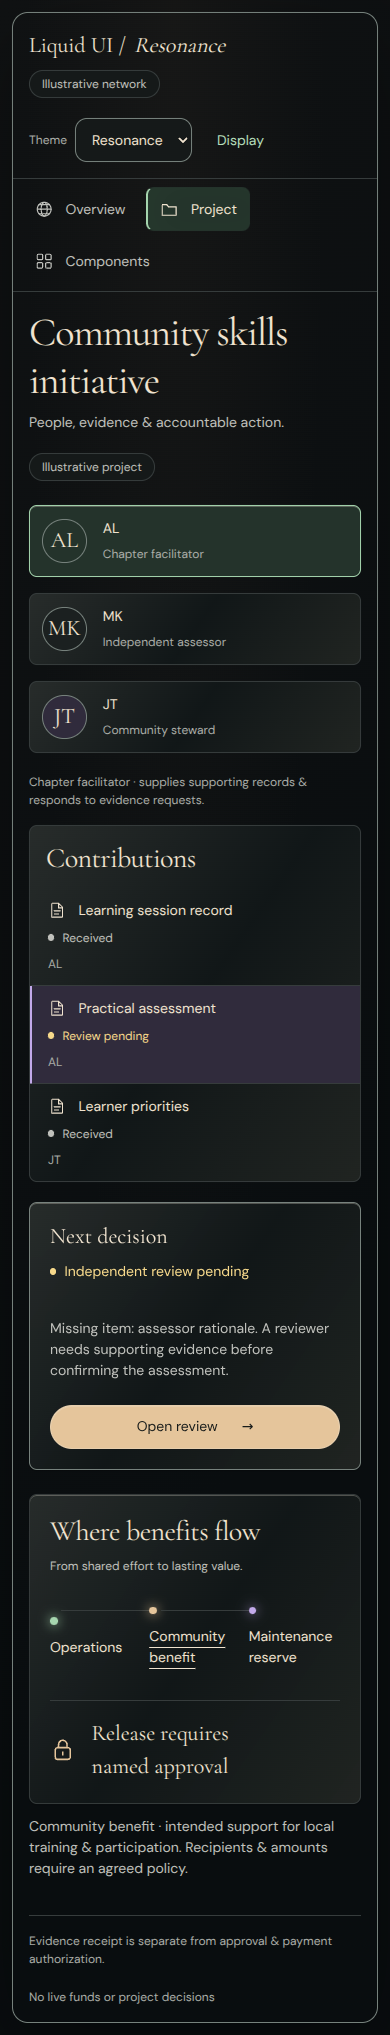
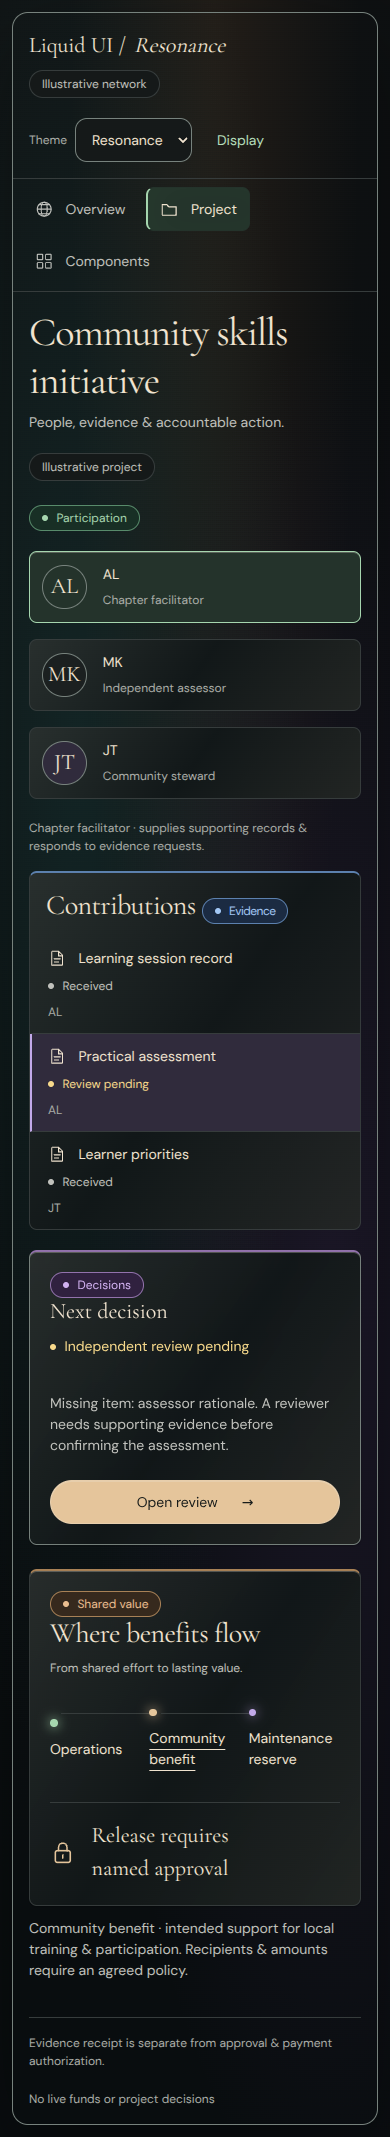
feat: add reusable functional color roles and globe role accents
Define participation, learning, evidence, governance and value palettes across themes. Keep functional roles separate from workflow status and selection. Demonstrate roles in shared components, project workspace and independent globe consumer.

Validation: 25 tests and Chromium browser checks passed; updated browser previews included.

Changed region(s): [[0.0615, 0.0, 0.9538, 1.0]]

diff --git a/showcase/index.html b/showcase/index.html
@@ -9,18 +9,18 @@
 <main class="liquid-main">
 <section id="overview" aria-label="Ecosystem overview"><div class="liquid-atlas"><div class="liquid-atlas__intro"><h1>A world of<br>shared possibility.</h1><p>Communities, projects & people in a connected tomorrow.</p><hr class="liquid-rule"><span class="liquid-eyebrow">Local action<br>global resonance</span></div>
 <div class="liquid-atlas__map"><liquid-globe id="network-globe" aria-label="Illustrative regional network"></liquid-globe></div>
-<div><h2>Explore the network</h2><div class="liquid-region-list"><button class="liquid-choice" data-region="caribbean" aria-pressed="true"><span class="liquid-light" aria-hidden="true"></span><span class="liquid-choice__label">Caribbean</span><span class="liquid-choice__meta">Community energy</span></button><button class="liquid-choice" data-region="west" aria-pressed="false"><span class="liquid-light liquid-light--gold" aria-hidden="true"></span><span class="liquid-choice__label">West Africa</span><span class="liquid-choice__meta">Learning</span></button><button class="liquid-choice" data-region="east" aria-pressed="false"><span class="liquid-light liquid-light--violet" aria-hidden="true"></span><span class="liquid-choice__label">East Africa</span><span class="liquid-choice__meta">Skills & opportunity</span></button></div>
-<article class="liquid-panel liquid-panel--glass"><div class="liquid-context__visual"><liquid-globe class="liquid-globe--mini" id="region-globe" aria-hidden="true" inert></liquid-globe><div aria-live="polite"><h2 id="region-name">Caribbean</h2><p id="region-sector">Community energy</p></div></div><p id="region-description" class="liquid-detail-line">People working together for resilient, locally governed energy systems.</p><div class="liquid-context__footer"><p class="liquid-caption">Participants · contributions · decisions</p><button id="explore-project" class="liquid-action liquid-action--full">Explore project <span aria-hidden="true">→</span></button></div></article></div></div>
+<div><h2>Explore the network</h2><div class="liquid-region-list"><button class="liquid-choice" data-region="caribbean" aria-pressed="true"><span class="liquid-light" data-liquid-role="participation" aria-hidden="true"></span><span class="liquid-choice__label">Caribbean</span><span class="liquid-choice__meta">Community energy</span></button><button class="liquid-choice" data-region="west" aria-pressed="false"><span class="liquid-light" data-liquid-role="learning" aria-hidden="true"></span><span class="liquid-choice__label">West Africa</span><span class="liquid-choice__meta">Learning</span></button><button class="liquid-choice" data-region="east" aria-pressed="false"><span class="liquid-light" data-liquid-role="learning" aria-hidden="true"></span><span class="liquid-choice__label">East Africa</span><span class="liquid-choice__meta">Skills & opportunity</span></button></div>
+<article class="liquid-panel liquid-panel--glass"><div class="liquid-context__visual"><liquid-globe class="liquid-globe--mini" id="region-globe" aria-hidden="true" inert></liquid-globe><div aria-live="polite"><h2 id="region-name">Caribbean</h2><p id="region-sector" class="liquid-role-label" data-liquid-role="participation">Community energy</p></div></div><p id="region-description" class="liquid-detail-line">People working together for resilient, locally governed energy systems.</p><div class="liquid-context__footer"><p class="liquid-caption">Participants · contributions · decisions</p><button id="explore-project" class="liquid-action liquid-action--full">Explore project <span aria-hidden="true">→</span></button></div></article></div></div>
 <footer class="liquid-footer"><span class="liquid-caption">Geography: <a href="https://github.com/topojson/world-atlas">Natural Earth / World Atlas</a></span><span class="liquid-caption">Illustrative locations · no deployment claims</span></footer></section>
 <section id="project" aria-label="Project workspace" hidden><header class="liquid-page-heading"><div><h1 id="project-title">Riverbend community energy</h1><p>People, evidence & accountable action.</p></div><span class="liquid-tag">Illustrative project</span></header>
-<div class="liquid-person-list" aria-label="Project participants"><button class="liquid-person" data-person="operator" aria-pressed="true"><span class="liquid-avatar">AL</span><span><span class="liquid-person__name">AL</span><span class="liquid-caption person-role">Project operator</span></span></button><button class="liquid-person" data-person="reviewer" aria-pressed="false"><span class="liquid-avatar liquid-avatar--neutral">MK</span><span><span class="liquid-person__name">MK</span><span class="liquid-caption person-role">Independent reviewer</span></span></button><button class="liquid-person" data-person="steward" aria-pressed="false"><span class="liquid-avatar liquid-avatar--violet">JT</span><span><span class="liquid-person__name">JT</span><span class="liquid-caption person-role">Community steward</span></span></button></div>
+<p><span class="liquid-role-label" data-liquid-role="participation">Participation</span></p><div class="liquid-person-list" aria-label="Project participants"><button class="liquid-person" data-person="operator" aria-pressed="true"><span class="liquid-avatar">AL</span><span><span class="liquid-person__name">AL</span><span class="liquid-caption person-role">Project operator</span></span></button><button class="liquid-person" data-person="reviewer" aria-pressed="false"><span class="liquid-avatar liquid-avatar--neutral">MK</span><span><span class="liquid-person__name">MK</span><span class="liquid-caption person-role">Independent reviewer</span></span></button><button class="liquid-person" data-person="steward" aria-pressed="false"><span class="liquid-avatar liquid-avatar--violet">JT</span><span><span class="liquid-person__name">JT</span><span class="liquid-caption person-role">Community steward</span></span></button></div>
 <p id="person-context" class="liquid-caption" aria-live="polite">Project operator · supplies supporting records & responds to evidence requests.</p>
-<div class="liquid-master-detail"><div class="liquid-records"><h2 class="liquid-records__heading">Contributions</h2><div class="liquid-records__labels" aria-hidden="true"><span>Item</span><span>Status</span><span>Added by</span></div><div id="contribution-list"></div></div>
-<aside class="liquid-panel liquid-panel--glass liquid-decision"><h3>Next decision</h3><div id="decision-context" aria-live="polite"><p class="liquid-state" data-status="pending">Independent review pending</p><p>Missing item: calibration signature.</p></div><button id="open-review" class="liquid-action liquid-action--full">Open review <span aria-hidden="true">→</span></button></aside></div>
-<div class="liquid-panel liquid-panel--quiet liquid-benefit-strip"><div><h2>Where benefits flow</h2><p class="liquid-caption">From shared effort to lasting value.</p></div><div class="liquid-benefits"><button class="liquid-benefit" data-benefit="operations" aria-pressed="false"><span class="liquid-light" aria-hidden="true"></span>Operations</button><button class="liquid-benefit" data-benefit="community" aria-pressed="true"><span class="liquid-light liquid-light--gold" aria-hidden="true"></span>Community benefit</button><button class="liquid-benefit" data-benefit="reserve" aria-pressed="false"><span class="liquid-light liquid-light--violet" aria-hidden="true"></span>Maintenance reserve</button></div><div class="liquid-approval"><svg class="liquid-icon" aria-hidden="true"><use href="#icon-lock"/></svg><strong>Release requires<br>named approval</strong></div></div>
+<div class="liquid-master-detail"><div class="liquid-records liquid-function-panel" data-liquid-role="evidence"><h2 class="liquid-records__heading">Contributions <span class="liquid-role-label" data-liquid-role="evidence">Evidence</span></h2><div class="liquid-records__labels" aria-hidden="true"><span>Item</span><span>Status</span><span>Added by</span></div><div id="contribution-list"></div></div>
+<aside class="liquid-panel liquid-panel--glass liquid-decision liquid-function-panel" data-liquid-role="governance"><span class="liquid-role-label" data-liquid-role="governance">Decisions</span><h3>Next decision</h3><div id="decision-context" aria-live="polite"><p class="liquid-state" data-status="pending">Independent review pending</p><p>Missing item: calibration signature.</p></div><button id="open-review" class="liquid-action liquid-action--full">Open review <span aria-hidden="true">→</span></button></aside></div>
+<div class="liquid-panel liquid-panel--quiet liquid-benefit-strip liquid-function-panel" data-liquid-role="value"><div><span class="liquid-role-label" data-liquid-role="value">Shared value</span><h2>Where benefits flow</h2><p class="liquid-caption">From shared effort to lasting value.</p></div><div class="liquid-benefits"><button class="liquid-benefit" data-benefit="operations" aria-pressed="false"><span class="liquid-light" aria-hidden="true"></span>Operations</button><button class="liquid-benefit" data-benefit="community" aria-pressed="true"><span class="liquid-light liquid-light--gold" aria-hidden="true"></span>Community benefit</button><button class="liquid-benefit" data-benefit="reserve" aria-pressed="false"><span class="liquid-light liquid-light--violet" aria-hidden="true"></span>Maintenance reserve</button></div><div class="liquid-approval"><svg class="liquid-icon" aria-hidden="true"><use href="#icon-lock"/></svg><strong>Release requires<br>named approval</strong></div></div>
 <p id="benefit-context" class="liquid-detail-line" aria-live="polite">Community benefit · intended support for local training & participation. Recipients & amounts require an agreed policy.</p>
 <footer class="liquid-footer"><span class="liquid-caption">Evidence receipt is separate from approval & payment authorization.</span><span class="liquid-caption">No live funds or project decisions</span></footer></section>
-<section id="components" aria-label="Reusable components" hidden><header class="liquid-page-heading"><div><h1>One system. Many contexts.</h1><p>The same package styles the atlas, project workspace & these primitives.</p></div><a href="/tokens.json">Inspect token source</a></header><div class="liquid-catalog"><article class="liquid-panel"><h2>Governed states</h2><div class="liquid-toolbar" id="state-catalog"></div><p class="liquid-caption">Visible labels carry meaning. Selection violet does not imply approval.</p></article><article class="liquid-panel liquid-panel--glass"><h2>Actions & feedback</h2><div class="liquid-toolbar"><button class="liquid-action" id="preview-feedback">Preview confirmation</button><button class="liquid-action" disabled>Release unavailable</button></div><p id="feedback" role="status" class="liquid-detail-line"></p></article><article class="liquid-panel"><h2>Inputs</h2><label class="liquid-field"><span class="liquid-field__label">Decision rationale</span><textarea class="liquid-textarea" aria-describedby="rationale-hint"></textarea><span class="liquid-field__hint" id="rationale-hint">Explain the evidence & next step.</span></label></article><article class="liquid-panel"><h2>Native controls</h2><p class="liquid-caption">Buttons & dialogs keep native keyboard behavior. The atlas includes an equivalent selectable list.</p><button class="liquid-button liquid-button--secondary" id="catalog-settings">Explore display options</button></article></div></section>
+<section id="components" aria-label="Reusable components" hidden><header class="liquid-page-heading"><div><h1>One system. Many contexts.</h1><p>The same package styles the atlas, project workspace & these primitives.</p></div><a href="/tokens.json">Inspect token source</a></header><div class="liquid-catalog"><article class="liquid-panel"><h2>Functional colors</h2><p>Color identifies a purpose. Status labels identify outcomes.</p><div class="liquid-toolbar"><span class="liquid-role-label" data-liquid-role="participation">Participation</span><span class="liquid-role-label" data-liquid-role="learning">Learning</span><span class="liquid-role-label" data-liquid-role="evidence">Evidence</span><span class="liquid-role-label" data-liquid-role="governance">Decisions</span><span class="liquid-role-label" data-liquid-role="value">Shared value</span></div></article><article class="liquid-panel"><h2>Governed states</h2><div class="liquid-toolbar" id="state-catalog"></div><p class="liquid-caption">Visible labels carry meaning. Selection violet does not imply approval.</p></article><article class="liquid-panel liquid-panel--glass"><h2>Actions & feedback</h2><div class="liquid-toolbar"><button class="liquid-action" id="preview-feedback">Preview confirmation</button><button class="liquid-action" disabled>Release unavailable</button></div><p id="feedback" role="status" class="liquid-detail-line"></p></article><article class="liquid-panel"><h2>Inputs</h2><label class="liquid-field"><span class="liquid-field__label">Decision rationale</span><textarea class="liquid-textarea" aria-describedby="rationale-hint"></textarea><span class="liquid-field__hint" id="rationale-hint">Explain the evidence & next step.</span></label></article><article class="liquid-panel"><h2>Native controls</h2><p class="liquid-caption">Buttons & dialogs keep native keyboard behavior. The atlas includes an equivalent selectable list.</p><button class="liquid-button liquid-button--secondary" id="catalog-settings">Explore display options</button></article></div></section>
 </main></div></div>
 <dialog class="liquid-dialog" id="settings-dialog" aria-labelledby="settings-title"><h2 id="settings-title">Display preferences</h2><p>Choose surfaces that are comfortable to read.</p><label class="liquid-field"><span>Solid panels</span><input id="solid-panels" type="checkbox"></label><p class="liquid-caption">Device preferences for reduced motion & reduced transparency remain respected.</p><form method="dialog"><button class="liquid-action">Done</button></form></dialog>
 <dialog class="liquid-dialog" id="review-dialog" aria-labelledby="review-title"><span class="liquid-tag">Illustrative interaction</span><h2 id="review-title">Record the next step.</h2><p id="review-summary"></p><form id="review-form"><label class="liquid-field"><span class="liquid-field__label">Reviewer rationale</span><textarea class="liquid-textarea" id="review-rationale" required></textarea></label><div class="liquid-toolbar"><button type="submit" class="liquid-action">Preview evidence request</button><button type="button" id="close-review" class="liquid-button liquid-button--quiet">Close</button></div><p id="review-feedback" role="status" class="liquid-detail-line"></p></form></dialog>

diff --git a/tokens.css b/tokens.css
@@ -69,6 +69,26 @@
   --liquid-globe-rim: #59786A;
   --liquid-globe-halo: rgba(77, 157, 152, 0.12);
   --liquid-globe-point: #126B50;
+  --liquid-role-participation-foreground: #21613F;
+  --liquid-role-participation-background: #EAF5EE;
+  --liquid-role-participation-border: #3D855A;
+  --liquid-role-participation-accent: #21613F;
+  --liquid-role-learning-foreground: #12616E;
+  --liquid-role-learning-background: #E6F5F7;
+  --liquid-role-learning-border: #278393;
+  --liquid-role-learning-accent: #12616E;
+  --liquid-role-evidence-foreground: #285C9E;
+  --liquid-role-evidence-background: #EAF1FC;
+  --liquid-role-evidence-border: #547CB6;
+  --liquid-role-evidence-accent: #285C9E;
+  --liquid-role-governance-foreground: #6D3E98;
+  --liquid-role-governance-background: #F3ECFA;
+  --liquid-role-governance-border: #8C61B4;
+  --liquid-role-governance-accent: #6D3E98;
+  --liquid-role-value-foreground: #855027;
+  --liquid-role-value-background: #FBF0E4;
+  --liquid-role-value-border: #A16D3D;
+  --liquid-role-value-accent: #855027;
   --liquid-font-family-display: 'Iowan Old Style', 'Palatino Linotype', 'Book Antiqua', Georgia, serif;
   --liquid-font-sans: Inter, ui-sans-serif, system-ui, -apple-system, BlinkMacSystemFont, 'Segoe UI', sans-serif;
   --liquid-font-mono: 'IBM Plex Mono', ui-monospace, SFMono-Regular, Consolas, monospace;
@@ -192,6 +212,26 @@
   --liquid-globe-rim: #6D8993;
   --liquid-globe-halo: rgba(147, 191, 198, 0.1);
   --liquid-globe-point: #CBEBC7;
+  --liquid-role-participation-foreground: #A6D6AF;
+  --liquid-role-participation-background: #182F25;
+  --liquid-role-participation-border: #588B6B;
+  --liquid-role-participation-accent: #A6D6AF;
+  --liquid-role-learning-foreground: #8FD6DE;
+  --liquid-role-learning-background: #142E35;
+  --liquid-role-learning-border: #4F8992;
+  --liquid-role-learning-accent: #8FD6DE;
+  --liquid-role-evidence-foreground: #A3C8F5;
+  --liquid-role-evidence-background: #1B2B42;
+  --liquid-role-evidence-border: #5C81AF;
+  --liquid-role-evidence-accent: #A3C8F5;
+  --liquid-role-governance-foreground: #D1B1F0;
+  --liquid-role-governance-background: #30213F;
+  --liquid-role-governance-border: #9272AC;
+  --liquid-role-governance-accent: #D1B1F0;
+  --liquid-role-value-foreground: #EABD8F;
+  --liquid-role-value-background: #36291D;
+  --liquid-role-value-border: #A88156;
+  --liquid-role-value-accent: #EABD8F;
   --liquid-shadow-sm: 0 1px 2px rgba(0, 0, 0, 0.30);
   --liquid-shadow-md: 0 12px 34px rgba(0, 0, 0, 0.38);
   --liquid-shadow-glass: 0 28px 90px rgba(0, 0, 0, 0.42);
@@ -255,7 +295,7 @@
   --liquid-product-accent-strong: #D4EED8;
   --liquid-product-accent-soft: #25382C;
   --liquid-overlay-scrim: rgba(3, 10, 7, 0.72);
-  --liquid-gradient-atmosphere: radial-gradient(ellipse at 45% 0%, rgba(116, 94, 73, 0.08), transparent 50%), linear-gradient(125deg, #101213, #090D0F 70%);
+  --liquid-gradient-atmosphere: radial-gradient(ellipse at 20% 35%, rgba(45, 129, 124, 0.18), transparent 52%), radial-gradient(ellipse at 85% 60%, rgba(112, 65, 152, 0.16), transparent 52%), radial-gradient(ellipse at 55% 0%, rgba(176, 116, 64, 0.12), transparent 48%), linear-gradient(125deg, #101213, #090D0F 70%);
   --liquid-gradient-resonance: linear-gradient(135deg, #A6D6AF, #9FC9C6 60%, #C2A9E9);
   --liquid-gradient-wallet: linear-gradient(135deg, #A6D6AF, #E5C59B);
   --liquid-material-panel: linear-gradient(125deg, rgba(46, 51, 49, 0.8), rgba(17, 23, 24, 0.94) 50%, rgba(37, 41, 37, 0.82));
@@ -263,12 +303,32 @@
   --liquid-material-selection: #302B3C;
   --liquid-material-selection-border: #C2A9E9;
   --liquid-material-active: #24332B;
-  --liquid-globe-ocean: #131C22;
+  --liquid-globe-ocean: #143038;
   --liquid-globe-shade: #05080D;
   --liquid-globe-land: #E6D1B2;
-  --liquid-globe-rim: #6D8993;
-  --liquid-globe-halo: rgba(147, 191, 198, 0.1);
+  --liquid-globe-rim: #78ADB8;
+  --liquid-globe-halo: rgba(104, 192, 203, 0.17);
   --liquid-globe-point: #CBEBC7;
+  --liquid-role-participation-foreground: #A6D6AF;
+  --liquid-role-participation-background: #182F25;
+  --liquid-role-participation-border: #588B6B;
+  --liquid-role-participation-accent: #A6D6AF;
+  --liquid-role-learning-foreground: #8FD6DE;
+  --liquid-role-learning-background: #142E35;
+  --liquid-role-learning-border: #4F8992;
+  --liquid-role-learning-accent: #8FD6DE;
+  --liquid-role-evidence-foreground: #A3C8F5;
+  --liquid-role-evidence-background: #1B2B42;
+  --liquid-role-evidence-border: #5C81AF;
+  --liquid-role-evidence-accent: #A3C8F5;
+  --liquid-role-governance-foreground: #D1B1F0;
+  --liquid-role-governance-background: #30213F;
+  --liquid-role-governance-border: #9272AC;
+  --liquid-role-governance-accent: #D1B1F0;
+  --liquid-role-value-foreground: #EABD8F;
+  --liquid-role-value-background: #36291D;
+  --liquid-role-value-border: #A88156;
+  --liquid-role-value-accent: #EABD8F;
   --liquid-shadow-sm: 0 1px 2px rgba(0, 0, 0, 0.30);
   --liquid-shadow-md: 0 12px 34px rgba(0, 0, 0, 0.38);
   --liquid-shadow-glass: 0 28px 90px rgba(0, 0, 0, 0.42);

diff --git a/components/globe.js b/components/globe.js
@@ -102,6 +102,7 @@ export class LiquidGlobe extends HTMLElement {
     const ratio=Math.min(devicePixelRatio||1,2),size=Math.round(w*ratio);if(canvas.width!==size){canvas.width=size;canvas.height=size;}
     c.setTransform(ratio,0,0,ratio,0,0);c.clearRect(0,0,w,w);const r=w*.445,mid=w/2;
     const styles=getComputedStyle(this),token=name=>styles.getPropertyValue(`--liquid-globe-${name}`).trim();
+    const accent=marker=>marker.role?styles.getPropertyValue(`--liquid-role-${marker.role}-accent`).trim():styles.getPropertyValue({'jade':'--liquid-color-brand','copper':'--liquid-color-brand-gold','violet':'--liquid-color-brand-violet','aqua':'--liquid-color-brand-aqua'}[marker.accent]).trim();
     const halo=c.createRadialGradient(mid,mid,r*.92,mid,mid,r*1.13);halo.addColorStop(0,token('halo'));halo.addColorStop(1,'transparent');c.fillStyle=halo;c.fillRect(0,0,w,w);
     const ocean=c.createRadialGradient(mid-r*.45,mid-r*.55,r*.05,mid,mid,r);ocean.addColorStop(0,token('ocean'));ocean.addColorStop(1,token('shade'));c.beginPath();c.arc(mid,mid,r,0,Math.PI*2);c.fillStyle=ocean;c.fill();
     c.strokeStyle=token('rim');c.globalAlpha=.65;c.lineWidth=.7;c.stroke();c.globalAlpha=1;
@@ -125,14 +126,19 @@ export class LiquidGlobe extends HTMLElement {
     for(const connection of this.#connections){
       const source=this.#markers.find(m=>m.id===connection.source),target=this.#markers.find(m=>m.id===connection.target);
       const active=connection.source===this.#selected||connection.target===this.#selected;
-      c.strokeStyle=active?token('point'):token('land');c.lineWidth=active?1.2:.75;
-      c.globalAlpha=active?.72:.32;c.shadowColor=c.strokeStyle;c.shadowBlur=active?7:0;
+      const start=projection(source.coordinates),end=projection(target.coordinates);
+      const gradient=c.createLinearGradient(start[0],start[1],end[0],end[1]);gradient.addColorStop(0,accent(source));gradient.addColorStop(1,accent(target));
+      c.strokeStyle=gradient;c.lineWidth=active?1.6:1;
+      c.globalAlpha=active?.9:.5;c.shadowColor=accent(source);c.shadowBlur=active?9:0;
       c.beginPath();path({type:'LineString',coordinates:[source.coordinates,target.coordinates]});c.stroke();
     }
     c.shadowBlur=0;c.globalAlpha=1;
     for(const marker of this.#markers){const [x,y,z]=projectVector(toVector(marker.coordinates),this.#longitude,this.#latitude);if(z<=0)continue;
       const selected=marker.id===this.#selected;const px=mid+x*r,py=mid+y*r;
-      c.fillStyle=selected?token('point'):styles.getPropertyValue('--liquid-color-brand-gold').trim();c.shadowColor=c.fillStyle;c.shadowBlur=selected?19:8;
+      const color=accent(marker);
+      const glow=c.createRadialGradient(px,py,0,px,py,selected?36:25);glow.addColorStop(0,color);glow.addColorStop(1,'transparent');
+      c.globalAlpha=selected?.3:.18;c.fillStyle=glow;c.fillRect(px-36,py-36,72,72);c.globalAlpha=1;
+      c.fillStyle=color;c.shadowColor=color;c.shadowBlur=selected?23:14;
       c.beginPath();c.arc(px,py,selected?5.5:3.5,0,Math.PI*2);c.fill();c.shadowBlur=0;
       if(selected){c.globalAlpha=.5;c.strokeStyle=c.fillStyle;c.beginPath();c.arc(px,py,10,0,Math.PI*2);c.stroke();c.globalAlpha=1;}
     }

diff --git a/system.css b/system.css
@@ -113,3 +113,15 @@ liquid-globe { display:block; min-width:0; }
 .liquid-globe__relationships li + li { margin-top:var(--liquid-space-3); }
 /* Connected benefit nodes echo the approved reference's shared-value strip. */
 .liquid-benefit:not(:last-child)::after { content:""; position:absolute; pointer-events:none; top:calc(var(--liquid-space-2) + .24rem); left:.7rem; right:calc(-1 * var(--liquid-space-3) + .2rem); height:1px; background:var(--liquid-color-border); }
+
+/* Functional identity is independent of status, selection and action emphasis. */
+[data-liquid-role="participation"] { --liquid-role-fg:var(--liquid-role-participation-foreground); --liquid-role-bg:var(--liquid-role-participation-background); --liquid-role-edge:var(--liquid-role-participation-border); --liquid-role-color:var(--liquid-role-participation-accent); }
+[data-liquid-role="learning"] { --liquid-role-fg:var(--liquid-role-learning-foreground); --liquid-role-bg:var(--liquid-role-learning-background); --liquid-role-edge:var(--liquid-role-learning-border); --liquid-role-color:var(--liquid-role-learning-accent); }
+[data-liquid-role="evidence"] { --liquid-role-fg:var(--liquid-role-evidence-foreground); --liquid-role-bg:var(--liquid-role-evidence-background); --liquid-role-edge:var(--liquid-role-evidence-border); --liquid-role-color:var(--liquid-role-evidence-accent); }
+[data-liquid-role="governance"] { --liquid-role-fg:var(--liquid-role-governance-foreground); --liquid-role-bg:var(--liquid-role-governance-background); --liquid-role-edge:var(--liquid-role-governance-border); --liquid-role-color:var(--liquid-role-governance-accent); }
+[data-liquid-role="value"] { --liquid-role-fg:var(--liquid-role-value-foreground); --liquid-role-bg:var(--liquid-role-value-background); --liquid-role-edge:var(--liquid-role-value-border); --liquid-role-color:var(--liquid-role-value-accent); }
+.liquid-role-label { display:inline-flex; align-items:center; gap:var(--liquid-space-2); padding:var(--liquid-space-1) var(--liquid-space-3); border:1px solid var(--liquid-role-edge); border-radius:var(--liquid-radius-pill); color:var(--liquid-role-fg); background:var(--liquid-role-bg); font:var(--liquid-font-size-xs) var(--liquid-font-sans); }
+.liquid-role-label::before { content:""; width:.4rem; height:.4rem; border-radius:50%; background:currentColor; }
+.liquid-function-panel[data-liquid-role] { border-top:2px solid var(--liquid-role-edge); }
+.liquid-light[data-liquid-role] { background:var(--liquid-role-color); box-shadow:0 0 12px var(--liquid-role-color); }
+@media(forced-colors:active) { .liquid-role-label { color:CanvasText; background:Canvas; border-color:CanvasText; } .liquid-function-panel[data-liquid-role] { border-color:CanvasText; } }

diff --git a/showcase/consumer.html b/showcase/consumer.html
@@ -1,1 +1,1 @@
-<!doctype html><html lang="en"><head><meta charset="utf-8"><meta name="viewport" content="width=device-width,initial-scale=1"><title>Liquid UI / independent consumer</title><link rel="stylesheet" href="../system.css"><script type="module">import '../components/globe.js';const globe=document.querySelector('liquid-globe');globe.markers=[{id:'london',label:'London reference point',coordinates:[-.12,51.5]},{id:'tokyo',label:'Tokyo reference point',coordinates:[139.69,35.68]}];globe.connections=[{id:'exchange',source:'london',target:'tokyo',label:'Illustrative research exchange'}];globe.selected='london';globe.addEventListener('liquid-select',event=>{document.querySelector('output').textContent='Selected '+event.detail.id;});</script></head><body class="liquid-app"><main class="liquid-main"><h1>Independent consumer</h1><p>Shared system & globe, different markers, no showcase stylesheet or fixtures.</p><div class="liquid-master-detail"><liquid-globe aria-label="Consumer-supplied reference locations"></liquid-globe><section class="liquid-panel"><h2>Selection</h2><output aria-live="polite">Selected london</output><p>No product workflow is supplied by the design system.</p></section></div></main></body></html>
+<!doctype html><html lang="en"><head><meta charset="utf-8"><meta name="viewport" content="width=device-width,initial-scale=1"><title>Liquid UI / independent consumer</title><link rel="stylesheet" href="../system.css"><script type="module">import '../components/globe.js';const globe=document.querySelector('liquid-globe');globe.markers=[{id:'london',label:'London reference point',role:'evidence',coordinates:[-.12,51.5]},{id:'tokyo',label:'Tokyo reference point',role:'evidence',coordinates:[139.69,35.68]}];globe.connections=[{id:'exchange',source:'london',target:'tokyo',label:'Illustrative research exchange'}];globe.selected='london';globe.addEventListener('liquid-select',event=>{document.querySelector('output').textContent='Selected '+event.detail.id;});</script></head><body class="liquid-app"><main class="liquid-main"><h1>Independent consumer</h1><p>Shared system & globe, different markers, no showcase stylesheet or fixtures.</p><div class="liquid-master-detail"><liquid-globe aria-label="Consumer-supplied reference locations"></liquid-globe><section class="liquid-panel"><h2>Selection</h2><output aria-live="polite">Selected london</output><p>No product workflow is supplied by the design system.</p></section></div></main></body></html>

diff --git a/showcase/showcase.js b/showcase/showcase.js
@@ -6,7 +6,7 @@ const regions={
   west:{label:'West Africa',coordinates:[-0.2,5.6],sector:'Learning & participation',description:'Mentors, learners & community stewards connecting practical learning with opportunity.',project:'Coastal learning chapter'},
   east:{label:'East Africa',coordinates:[36.8,-1.3],sector:'Skills & opportunity',description:'Local participants building practical skills & documenting accountable learning outcomes.',project:'Community skills initiative'}
 };
-const markers=Object.entries(regions).map(([id,r])=>({id,label:r.label,coordinates:r.coordinates}));
+const markers=Object.entries(regions).map(([id,r])=>({id,label:r.label,coordinates:r.coordinates,role:id==='caribbean'?'participation':'learning'}));
 const globe=$('#network-globe'),mini=$('#region-globe');globe.markers=markers;mini.markers=markers;
 globe.connections=[
  {id:'peer-learning',source:'caribbean',target:'west',label:'Illustrative exchange of community energy knowledge'},
@@ -14,7 +14,7 @@ globe.connections=[
  {id:'shared-practice',source:'caribbean',target:'east',label:'Illustrative sharing of project evidence & practice'}
 ];
 let region='caribbean' ,record=1;
-function selectRegion(id){region=id;const r=regions[id];$('#region-name').textContent=r.label;$('#region-sector').textContent=r.sector;$('#region-description').textContent=r.description;all('[data-region]').forEach(b=>b.setAttribute('aria-pressed',String(b.dataset.region===id)));globe.selected=id;mini.selected=id;}
+function selectRegion(id){region=id;const r=regions[id];$('#region-name').textContent=r.label;$('#region-sector').textContent=r.sector;$('#region-sector').dataset.liquidRole=id==='caribbean'?'participation':'learning';$('#region-description').textContent=r.description;all('[data-region]').forEach(b=>b.setAttribute('aria-pressed',String(b.dataset.region===id)));globe.selected=id;mini.selected=id;}
 // Start with both Atlantic coasts visible, while the miniature focuses the selected region.
 mini.selected=region;globe.selected=region;globe.focus([-25,14]);
 globe.addEventListener('liquid-select',e=>selectRegion(e.detail.id));all('[data-region]').forEach(b=>b.onclick=()=>selectRegion(b.dataset.region));

diff --git a/components/globe-math.js b/components/globe-math.js
@@ -13,12 +13,14 @@ export function validateMarkers(markers) {
   if (!Array.isArray(markers)) throw new TypeError('markers must be an array');
   const ids = new Set();
   return markers.map(marker => {
-    const {id, label, coordinates} = marker;
+    const {id, label, coordinates, role, accent = 'jade'} = marker;
+    if (!['jade','copper','violet','aqua'].includes(accent)) throw new TypeError('marker accent must be jade, copper, violet or aqua');
     if (typeof id !== 'string' || !id || ids.has(id)) throw new TypeError('marker IDs must be unique nonempty strings');
     if (typeof label !== 'string' || !label) throw new TypeError('marker labels must be nonempty strings');
     if (!Array.isArray(coordinates) || coordinates.length !== 2 || !coordinates.every(Number.isFinite) || Math.abs(coordinates[0]) > 180 || Math.abs(coordinates[1]) > 90) throw new RangeError('marker coordinates must be [longitude, latitude] in degrees');
+    if (role !== undefined && !['participation','learning','evidence','governance','value'].includes(role)) throw new TypeError('unknown functional role');
     ids.add(id);
-    return {id, label, coordinates: [...coordinates]};
+    return {id, label, coordinates: [...coordinates], accent, ...(role === undefined ? {} : {role})};
   });
 }
 

diff --git a/COMPONENTS.md b/COMPONENTS.md
@@ -142,3 +142,43 @@ rotation clips arcs at the globe horizon. List mode exposes endpoint names and
 labels without needing to interpret the visualization. The same API is exercised
 by `showcase/consumer.html` with unrelated data. D3 is bundled locally; rebuild
 with `npm run build:d3`. It owns geometry, while shared tokens own appearance.
+
+Marker `accent` accepts `jade` (default), `copper`, `violet` or `aqua`. These
+reference shared brand tokens. Marker identity keeps its color on selection;
+connection gradients interpolate endpoint colors. Accent indicates identity,
+not verification or workflow status. Labels and selection rings remain available.
+
+### Functional color roles
+
+| Role | Color family | Purpose |
+| --- | --- | --- |
+| `participation` | Jade | People, collaboration, team membership |
+| `learning` | Cyan | Coaching, skills, knowledge exchange |
+| `evidence` | Blue | Contributions, records, supporting information |
+| `governance` | Violet | Review, deliberation, decisions |
+| `value` | Copper | Benefits, allocation, shared value |
+
+Each role defines `foreground`, `background`, `border` and `accent` under
+`semantic.role` in tokens.json, with light, dark & Resonance values. Use the
+semantic name rather than a color literal:
+
+```html
+<span class="liquid-role-label" data-liquid-role="learning">Learning</span>
+<section class="liquid-panel liquid-function-panel" data-liquid-role="governance">
+  <h2>Independent review</h2>
+  <span class="liquid-badge" data-status="pending">Review pending</span>
+</section>
+```
+
+Labels remain required: color is supporting information. Role colors indicate
+purpose, not success, readiness, permissions or selection. A violet review panel
+can contain an amber pending badge; neither overrides the other. Focus and
+selected-state styling remain independent. Unknown role names have no contract.
+
+Globe markers accept `role` using the same five names. When present, `role`
+overrides the optional decorative `accent`; consumers should prefer `role` when
+color carries functional meaning. Two learning locations share cyan regardless
+of geography. Marker labels still name the location. The component catalog
+provides all five examples, and the project workspace demonstrates roles beside
+existing status badges. Product-specific subcategories need an explicit extension
+rather than silently repurposing these shared names.

diff --git a/DESIGN-STRATEGY.md b/DESIGN-STRATEGY.md
@@ -135,3 +135,16 @@ claim pixel identity with the reference's photographic globe. The remaining
 fidelity questions are geographic texture, atmosphere & proportional balance;
 review them in actual browser screenshots, not generated alternatives. Automated
 checks establish behavior and reuse, not a subjective B+ design grade.
+
+## Functional color, not increased saturation
+
+The expanded palette encodes product functions: jade participation, cyan
+learning, blue evidence, violet decisions and copper shared value. These map to
+Emanuel's emphasis on people, growth, accountable decisions and distribution of
+benefits. Brand atmosphere remains separate. Every role has theme-specific
+foreground/background/border/accent tokens and a readable label.
+
+Do not assign a different hue to two places solely to make the globe colorful
+when they perform the same function. Functional role takes precedence over
+regional decoration. Status continues to communicate outcomes using the existing
+seven-state contract. Selection, focus, role and status are independent layers.

diff --git a/docs/VALIDATION.md b/docs/VALIDATION.md
@@ -41,9 +41,13 @@ No full screen-reader audit or production product integration is claimed.
 
 ## Latest run
 
-24 repository tests passed. The browser checks described above passed in local
+25 repository tests passed. The browser checks described above passed in local
 headless Chromium. Package dry run includes 23 files (about 241 KB compressed),
 including shared styles, globe geometry, the bundled D3 runtime, fonts & licenses.
 Relationship tests cover orphaned endpoints, copied inputs, horizon clipping &
 alignment with point projection. Browser checks cover relationship list text
 and atomic rejection when replacing referenced markers.
+
+Functional roles: all five labels meet 4.5:1 text contrast on their role surfaces
+in light, dark & Resonance. Browser checks include the five-role catalog; the
+independent consumer uses evidence-role markers. Status tests remain unchanged.

diff --git a/CHANGELOG.md b/CHANGELOG.md
@@ -34,3 +34,11 @@ This private version is not a registry publication or downstream product update.
 - Documented the image/globe/blockchain/bio-to-component source contract.
 - Added connected benefit-node styling from the approved concept.
 - Verified a second consumer, connection validation & projection alignment.
+
+### Functional color system
+
+- Added participation, learning, evidence, governance & value role tokens across
+  all themes, reusable role labels/panels and catalog examples.
+- Globe markers can use functional roles; connections blend endpoint colors.
+- Preserved brand colors and kept workflow statuses independent of roles.
+- Verified role text contrast and independent-consumer usage.
